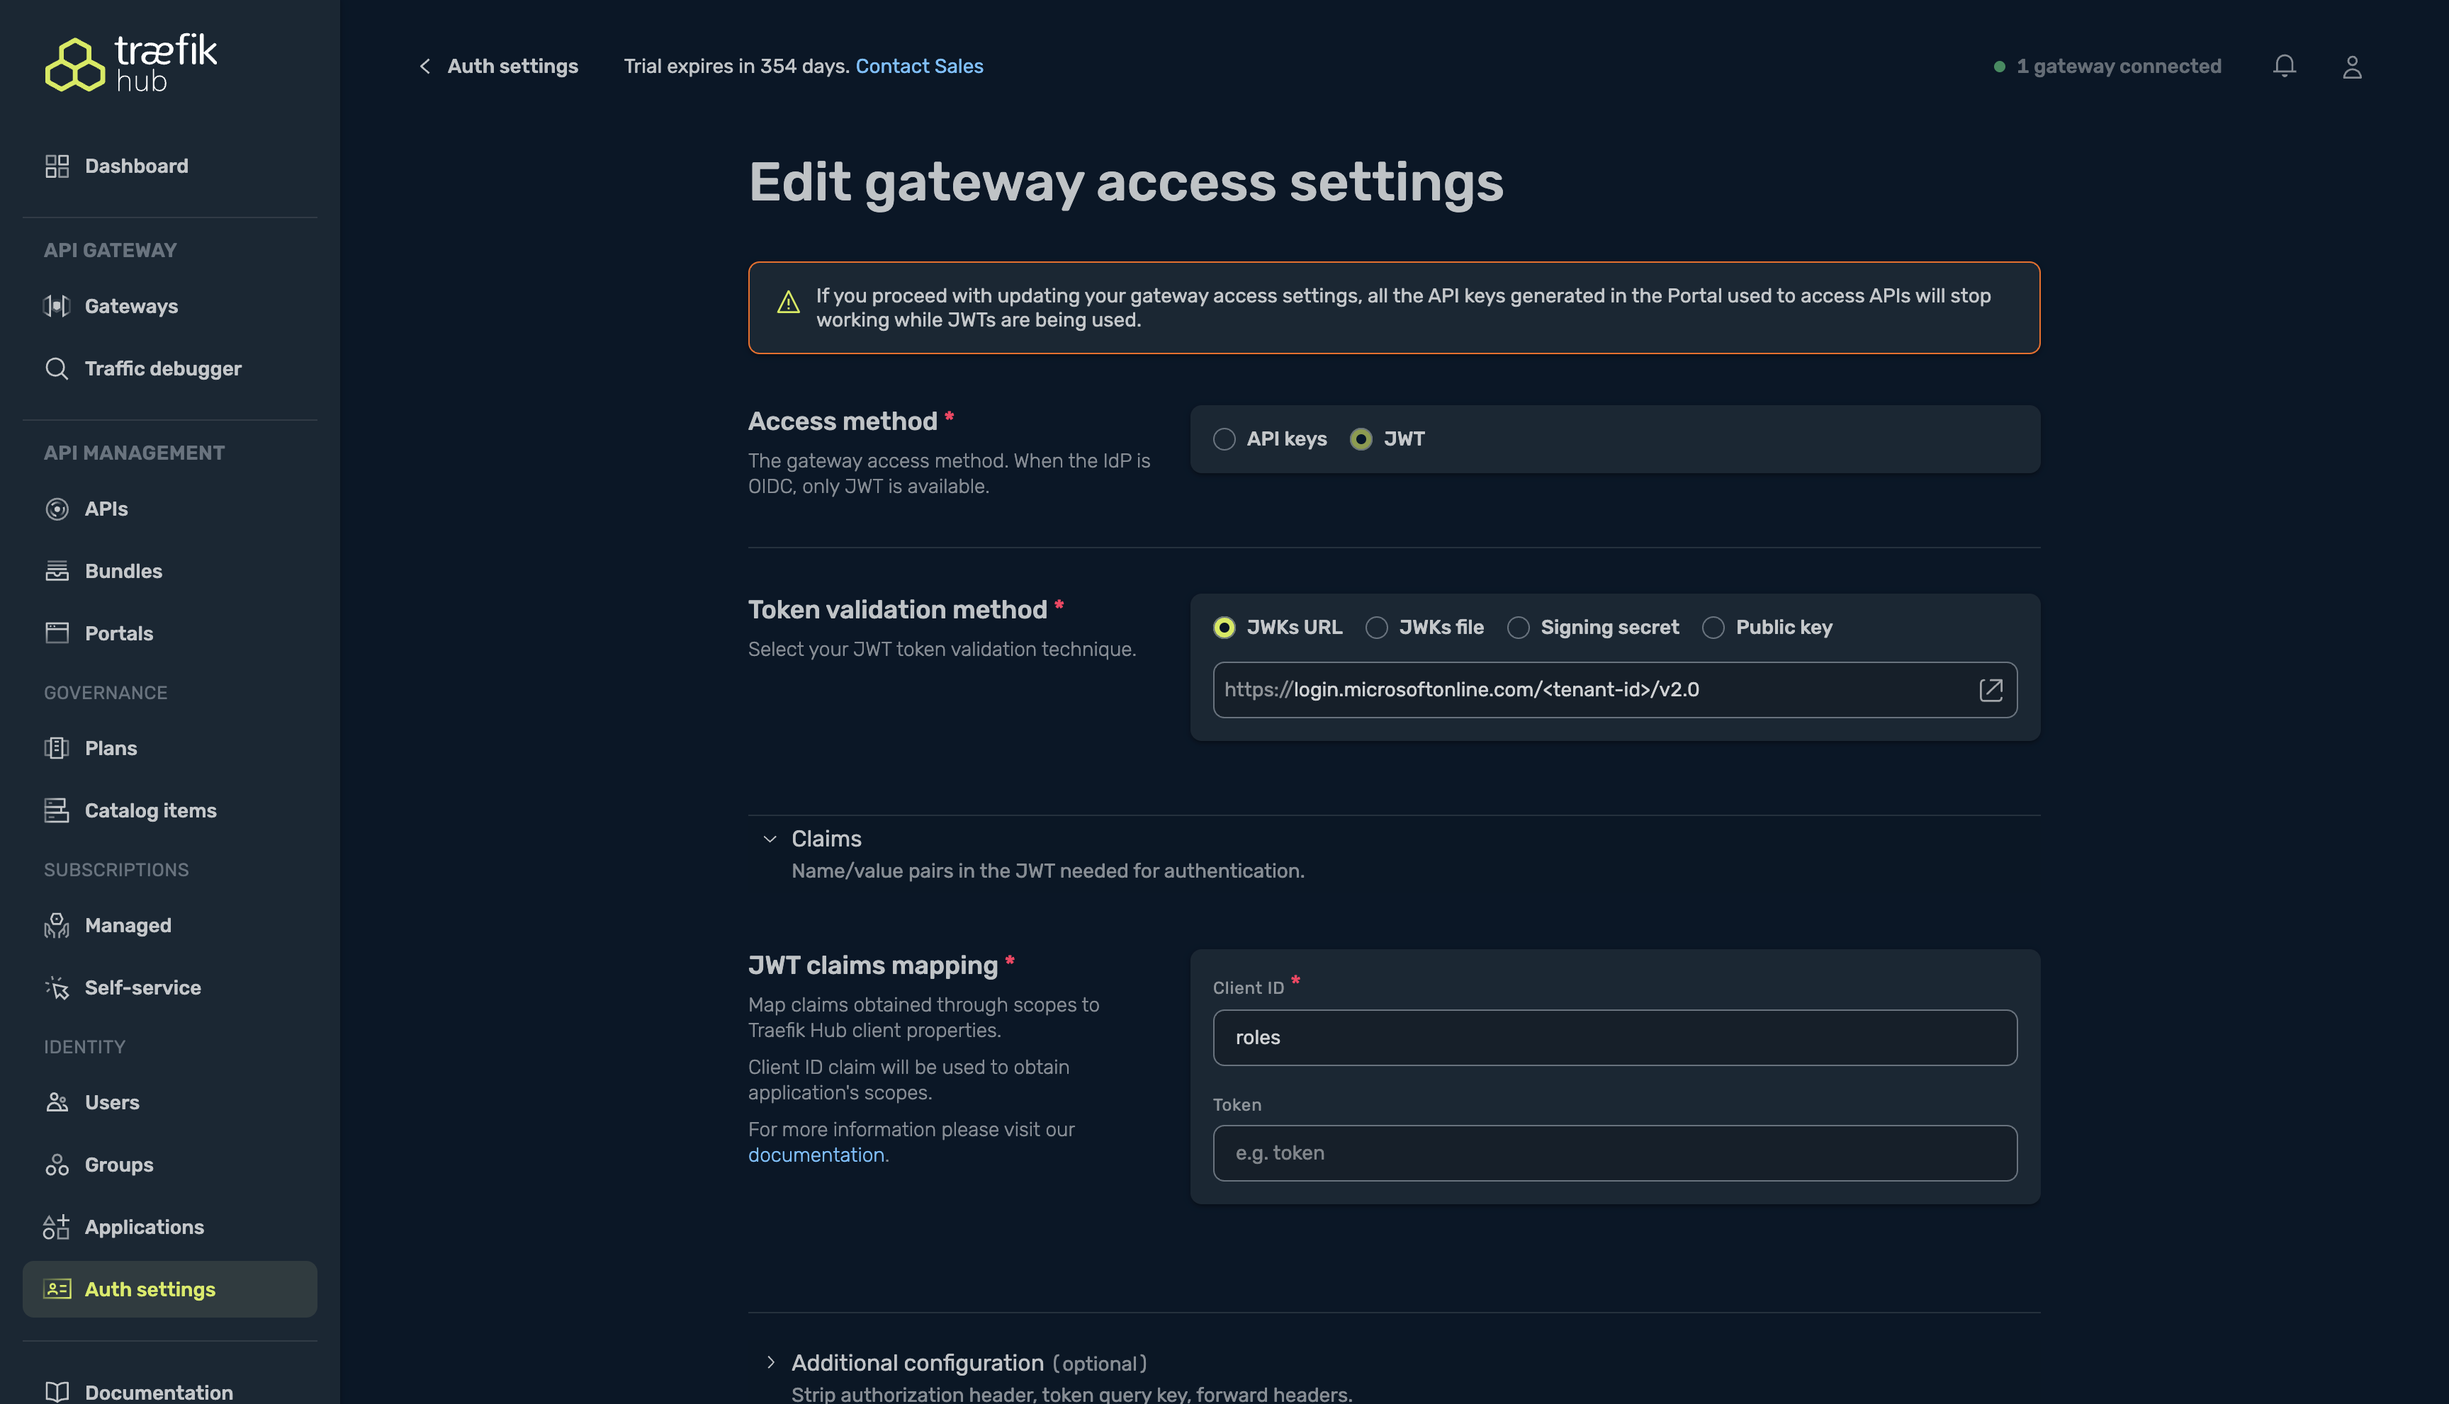
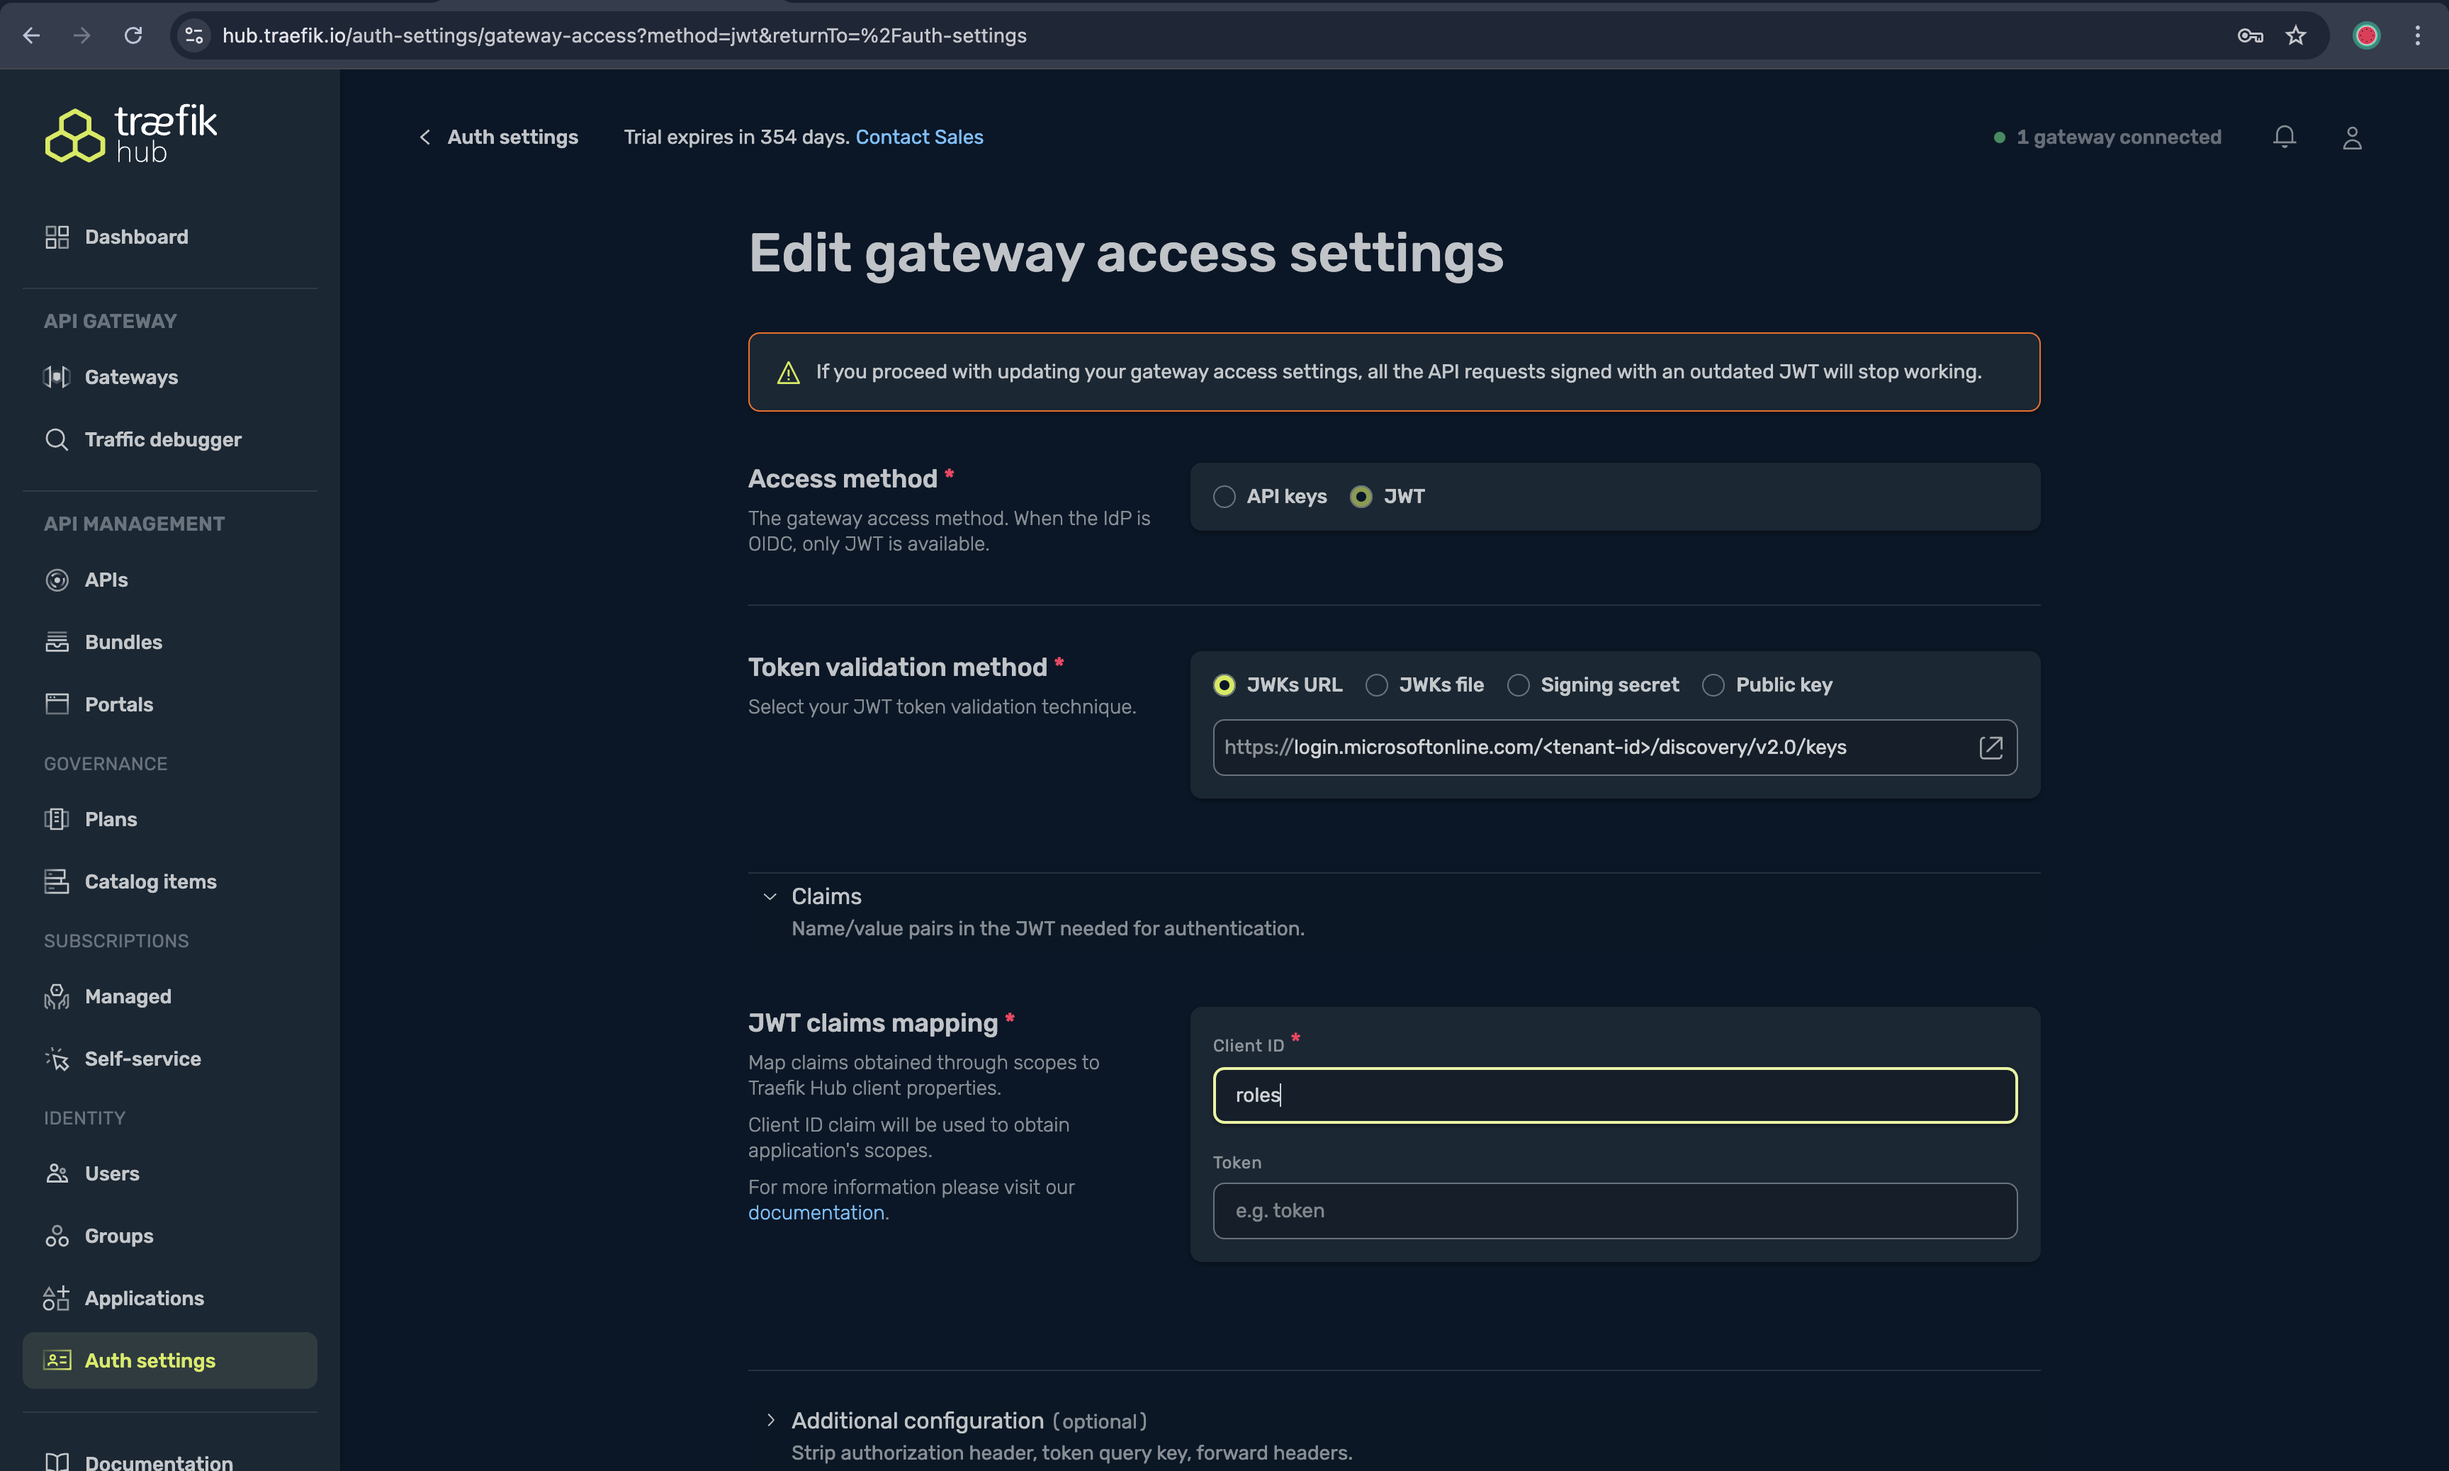
finish m3

diff --git a/module-3/readme.md b/module-3/readme.md
@@ -266,13 +266,11 @@ terraform output -raw admin_email
 terraform output -raw admin_password
 ```
 
-Support user email and password:
-```bash
-terraform output -raw support_email
-```
-```bash
-terraform output -raw support_password
-```
+5. Log in to the API Dev Portal with a user and create a new Application with the name `admin`
+
+![portal-oidc](../media/managed-subscription-application.png)
+
+The managed subscription will give you access to a set of APIs once you create an application with a matching id.
 
 Portal URL:
 ```bash
@@ -296,7 +294,7 @@ export access_token=$(curl -X POST -H 'Content-Type: application/x-www-form-urle
 https://login.microsoftonline.com/$(terraform output -raw tenant_id)/oauth2/v2.0/token \
 -d "client_id=$(terraform output -raw application_client_id)" \
 -d "client_secret=$(terraform output -raw application_client_secret)" \
--d "scope=c51d02df-7bc5-4478-a41f-86c743ac783c/.default" \
+-d "scope=$(terraform output -raw entraid_api_id)/.default" \
 -d "grant_type=password" \
 -d "username=$(terraform output -raw admin_email)" \
 -d "password=$(terraform output -raw admin_password)" | grep -o '"access_token":"[^"]*' | cut -d'"' -f4)
